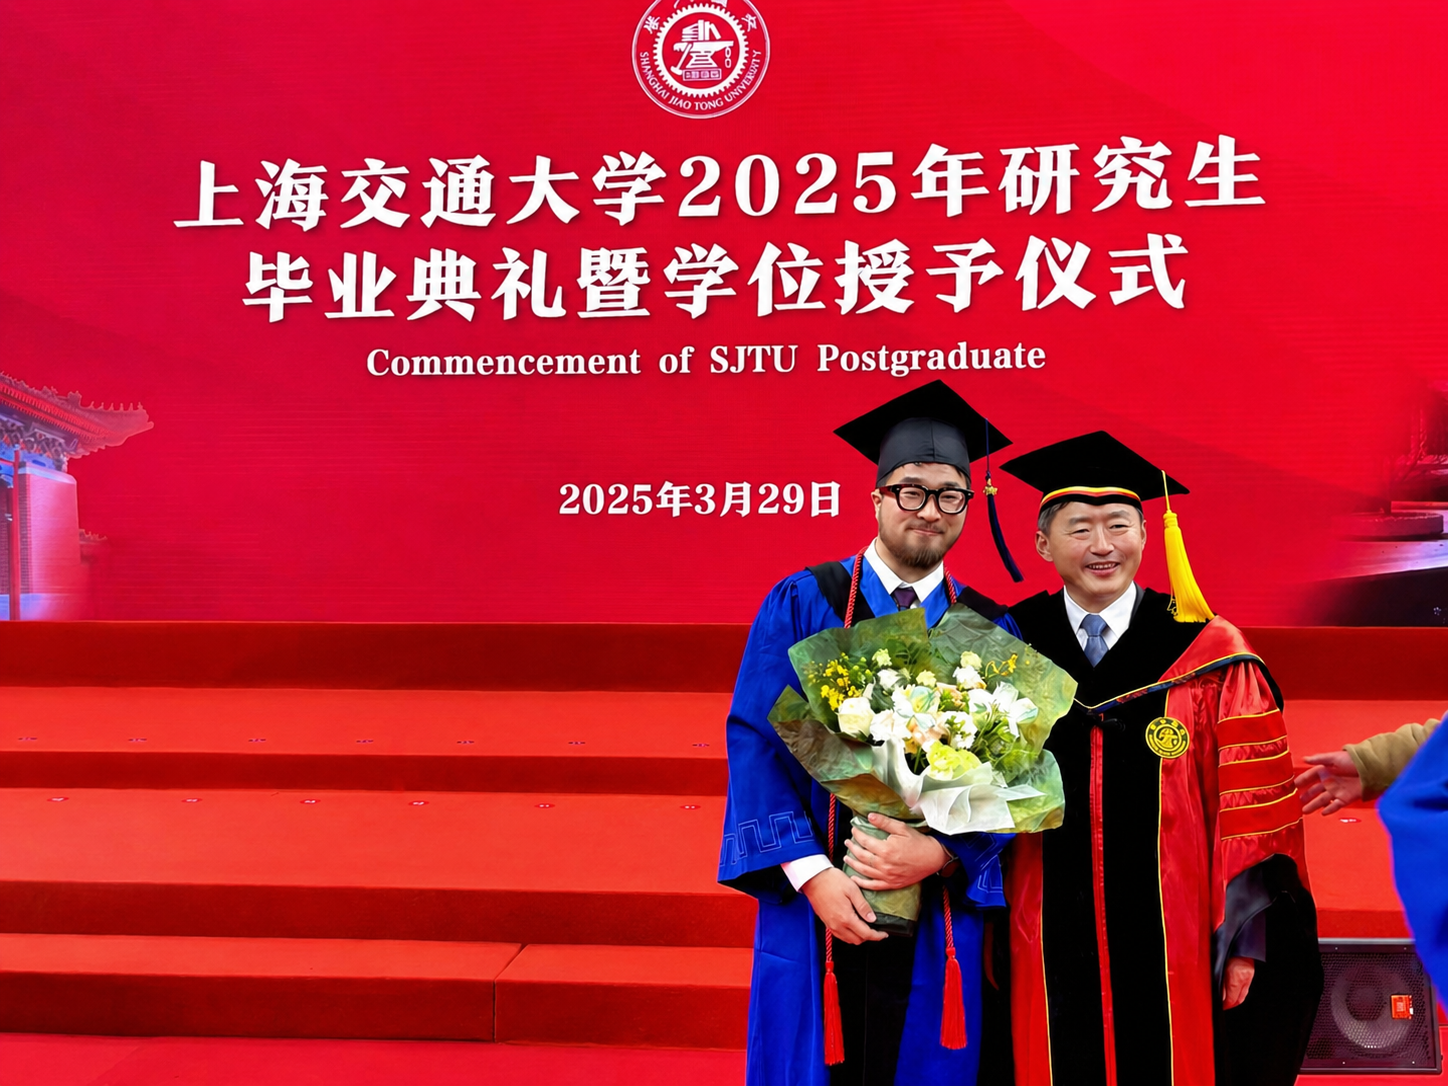
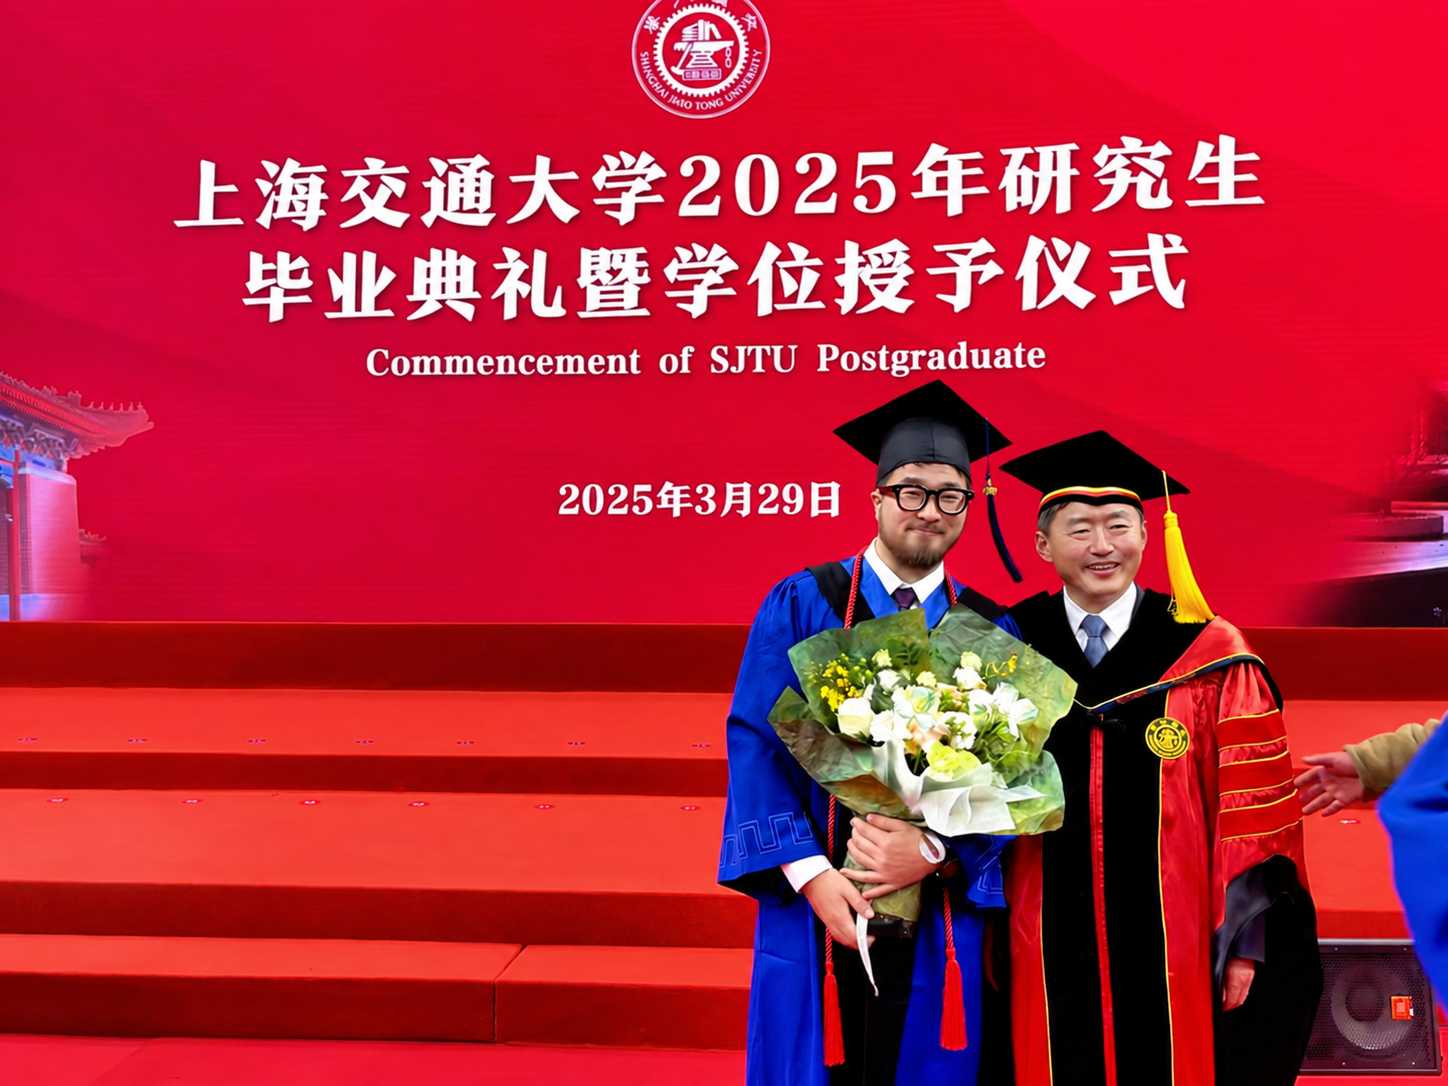
Update

diff --git a/assets/js/news-photo-viewer.js b/assets/js/news-photo-viewer.js
@@ -1,0 +1,86 @@
+(function () {
+  "use strict";
+
+  const dialog = document.getElementById("news-photo-viewer");
+  if (!dialog || typeof dialog.showModal !== "function") return;
+
+  const closeButton = dialog.querySelector(".news-photo-close");
+  const stage = dialog.querySelector(".news-photo-stage");
+  const status = dialog.querySelector(".news-photo-status");
+  const caption = dialog.querySelector("#news-photo-caption");
+  const original = dialog.querySelector(".news-photo-original");
+  let opener = null;
+  let requestId = 0;
+  let scrollPosition = { x: 0, y: 0 };
+  let backdropPointer = false;
+
+  document.querySelectorAll("a[data-news-photo]").forEach(function (link) {
+    link.setAttribute("aria-haspopup", "dialog");
+    link.setAttribute("aria-controls", dialog.id);
+    link.addEventListener("click", function (event) {
+      // Modified clicks and unsupported browsers keep the ordinary image link.
+      if (event.defaultPrevented || event.button !== 0 || event.metaKey || event.ctrlKey
+          || event.shiftKey || event.altKey) return;
+      const url = new URL(link.href, document.baseURI);
+      if (!/^https?:$/.test(url.protocol)) return;
+
+      scrollPosition = { x: window.scrollX, y: window.scrollY };
+      caption.textContent = link.dataset.newsCaption || link.textContent.trim();
+      original.href = url.href;
+      stage.querySelectorAll("img").forEach(function (image) { image.remove(); });
+      status.hidden = false;
+      status.textContent = "Loading photo…";
+      try {
+        dialog.showModal();
+      } catch (error) {
+        return;
+      }
+      event.preventDefault();
+      opener = link;
+      document.documentElement.classList.add("news-photo-open");
+
+      const id = ++requestId;
+      const photo = new Image();
+      photo.alt = link.dataset.newsAlt || caption.textContent;
+      photo.onload = function () {
+        if (id !== requestId || !dialog.open) return;
+        status.hidden = true;
+        status.textContent = "";
+        stage.appendChild(photo);
+      };
+      photo.onerror = function () {
+        if (id !== requestId || !dialog.open) return;
+        status.textContent = "Could not load this photo. Use Open image to try it in a new tab.";
+      };
+      photo.src = url.href;
+    });
+  });
+
+  closeButton.addEventListener("click", function () { dialog.close(); });
+
+  function isBackdrop(event) {
+    if (event.target !== dialog) return false;
+    const bounds = dialog.getBoundingClientRect();
+    return event.clientX < bounds.left || event.clientX > bounds.right
+      || event.clientY < bounds.top || event.clientY > bounds.bottom;
+  }
+
+  // A drag starting on the photo should never dismiss the viewer.
+  dialog.addEventListener("pointerdown", function (event) {
+    backdropPointer = isBackdrop(event);
+  });
+  dialog.addEventListener("click", function (event) {
+    if (backdropPointer && isBackdrop(event)) dialog.close();
+    backdropPointer = false;
+  });
+
+  // Escape and the close button share scroll/focus cleanup.
+  dialog.addEventListener("close", function () {
+    ++requestId;
+    document.documentElement.classList.remove("news-photo-open");
+    if (opener && opener.isConnected) opener.focus({ preventScroll: true });
+    window.scrollTo({ left: scrollPosition.x, top: scrollPosition.y, behavior: "instant" });
+    opener = null;
+    backdropPointer = false;
+  });
+})();

diff --git a/assets/css/news-photo-viewer.css b/assets/css/news-photo-viewer.css
@@ -1,0 +1,96 @@
+html.news-photo-open,
+html.news-photo-open body {
+  overflow: hidden;
+  overscroll-behavior: none;
+}
+
+.news-photo-viewer {
+  box-sizing: border-box;
+  width: min(1100px, calc(100vw - 40px));
+  max-width: calc(100vw - 40px);
+  max-height: calc(100vh - 32px);
+  max-height: calc(100dvh - 32px);
+  margin: auto;
+  padding: 0;
+  border: 1px solid var(--site-border, #ccc);
+  border-radius: 10px;
+  background: var(--global-bg-color, #fff);
+  color: var(--global-text-color, #333);
+  box-shadow: 0 20px 80px rgba(0, 0, 0, 0.3);
+}
+
+.news-photo-viewer:not([open]) { display: none; }
+.news-photo-viewer[open] { animation: news-photo-appear 160ms ease-out; }
+.news-photo-viewer::backdrop { background: rgba(9, 15, 24, 0.76); }
+
+.news-photo-toolbar {
+  display: flex;
+  justify-content: flex-end;
+  padding: 2px 4px;
+}
+
+.news-photo-close {
+  display: inline-flex;
+  align-items: center;
+  justify-content: center;
+  width: 44px;
+  height: 44px;
+  padding: 0;
+  border: 0;
+  border-radius: 6px;
+  background: transparent;
+  color: inherit;
+  font: 30px/1 Arial, sans-serif;
+  cursor: pointer;
+}
+
+.news-photo-close:hover { background: var(--site-surface, #f9f9f9); }
+.news-photo-viewer :focus-visible {
+  outline: 2px solid var(--global-theme-color, #13294b);
+  outline-offset: -3px;
+}
+
+.news-photo-figure { margin: 0; }
+.news-photo-stage { display: grid; place-items: center; }
+.news-photo-stage img {
+  display: block;
+  width: auto;
+  height: auto;
+  max-width: 100%;
+  max-height: calc(100vh - 156px);
+  max-height: calc(100dvh - 156px);
+  object-fit: contain;
+}
+
+.news-photo-status { margin: 0; padding: 60px 24px; text-align: center; }
+.news-photo-status[hidden] { display: none; }
+.news-photo-details {
+  display: flex;
+  align-items: center;
+  justify-content: space-between;
+  flex-wrap: wrap;
+  gap: 4px 20px;
+  padding: 12px 18px;
+  color: var(--global-text-color-light, #666);
+  font-size: 16px;
+  line-height: 1.4;
+}
+.news-photo-original { white-space: nowrap; }
+
+@keyframes news-photo-appear {
+  from { opacity: 0; transform: translateY(6px); }
+  to { opacity: 1; transform: translateY(0); }
+}
+
+@media (max-width: 600px) {
+  .news-photo-viewer { width: calc(100vw - 16px); max-width: calc(100vw - 16px); }
+  .news-photo-details { padding: 10px 12px; font-size: 15px; }
+}
+
+@media (prefers-reduced-motion: reduce) {
+  .news-photo-viewer[open] { animation: none; }
+}
+
+@media print {
+  .news-photo-viewer { display: none !important; }
+}

diff --git a/_includes/news-photo-viewer.html b/_includes/news-photo-viewer.html
@@ -1,0 +1,16 @@
+<link rel="stylesheet" href="{{ '/assets/css/news-photo-viewer.css' | relative_url }}?v={{ site.time | date: '%s' }}">
+<dialog class="news-photo-viewer" id="news-photo-viewer" aria-label="News photo" aria-describedby="news-photo-caption">
+  <div class="news-photo-toolbar">
+    <button class="news-photo-close" type="button" aria-label="Close photo" autofocus><span aria-hidden="true">&times;</span></button>
+  </div>
+  <figure class="news-photo-figure">
+    <div class="news-photo-stage">
+      <p class="news-photo-status" role="status"></p>
+    </div>
+    <figcaption class="news-photo-details">
+      <span id="news-photo-caption"></span>
+      <a class="news-photo-original" target="_blank" rel="noopener">Open image <span aria-hidden="true">↗</span></a>
+    </figcaption>
+  </figure>
+</dialog>
+<script src="{{ '/assets/js/news-photo-viewer.js' | relative_url }}?v={{ site.time | date: '%s' }}" defer></script>

diff --git a/_includes/news-list.html b/_includes/news-list.html
@@ -6,3 +6,4 @@
   </li>
   {% endfor %}
 </ul>
+{% include news-photo-viewer.html %}
